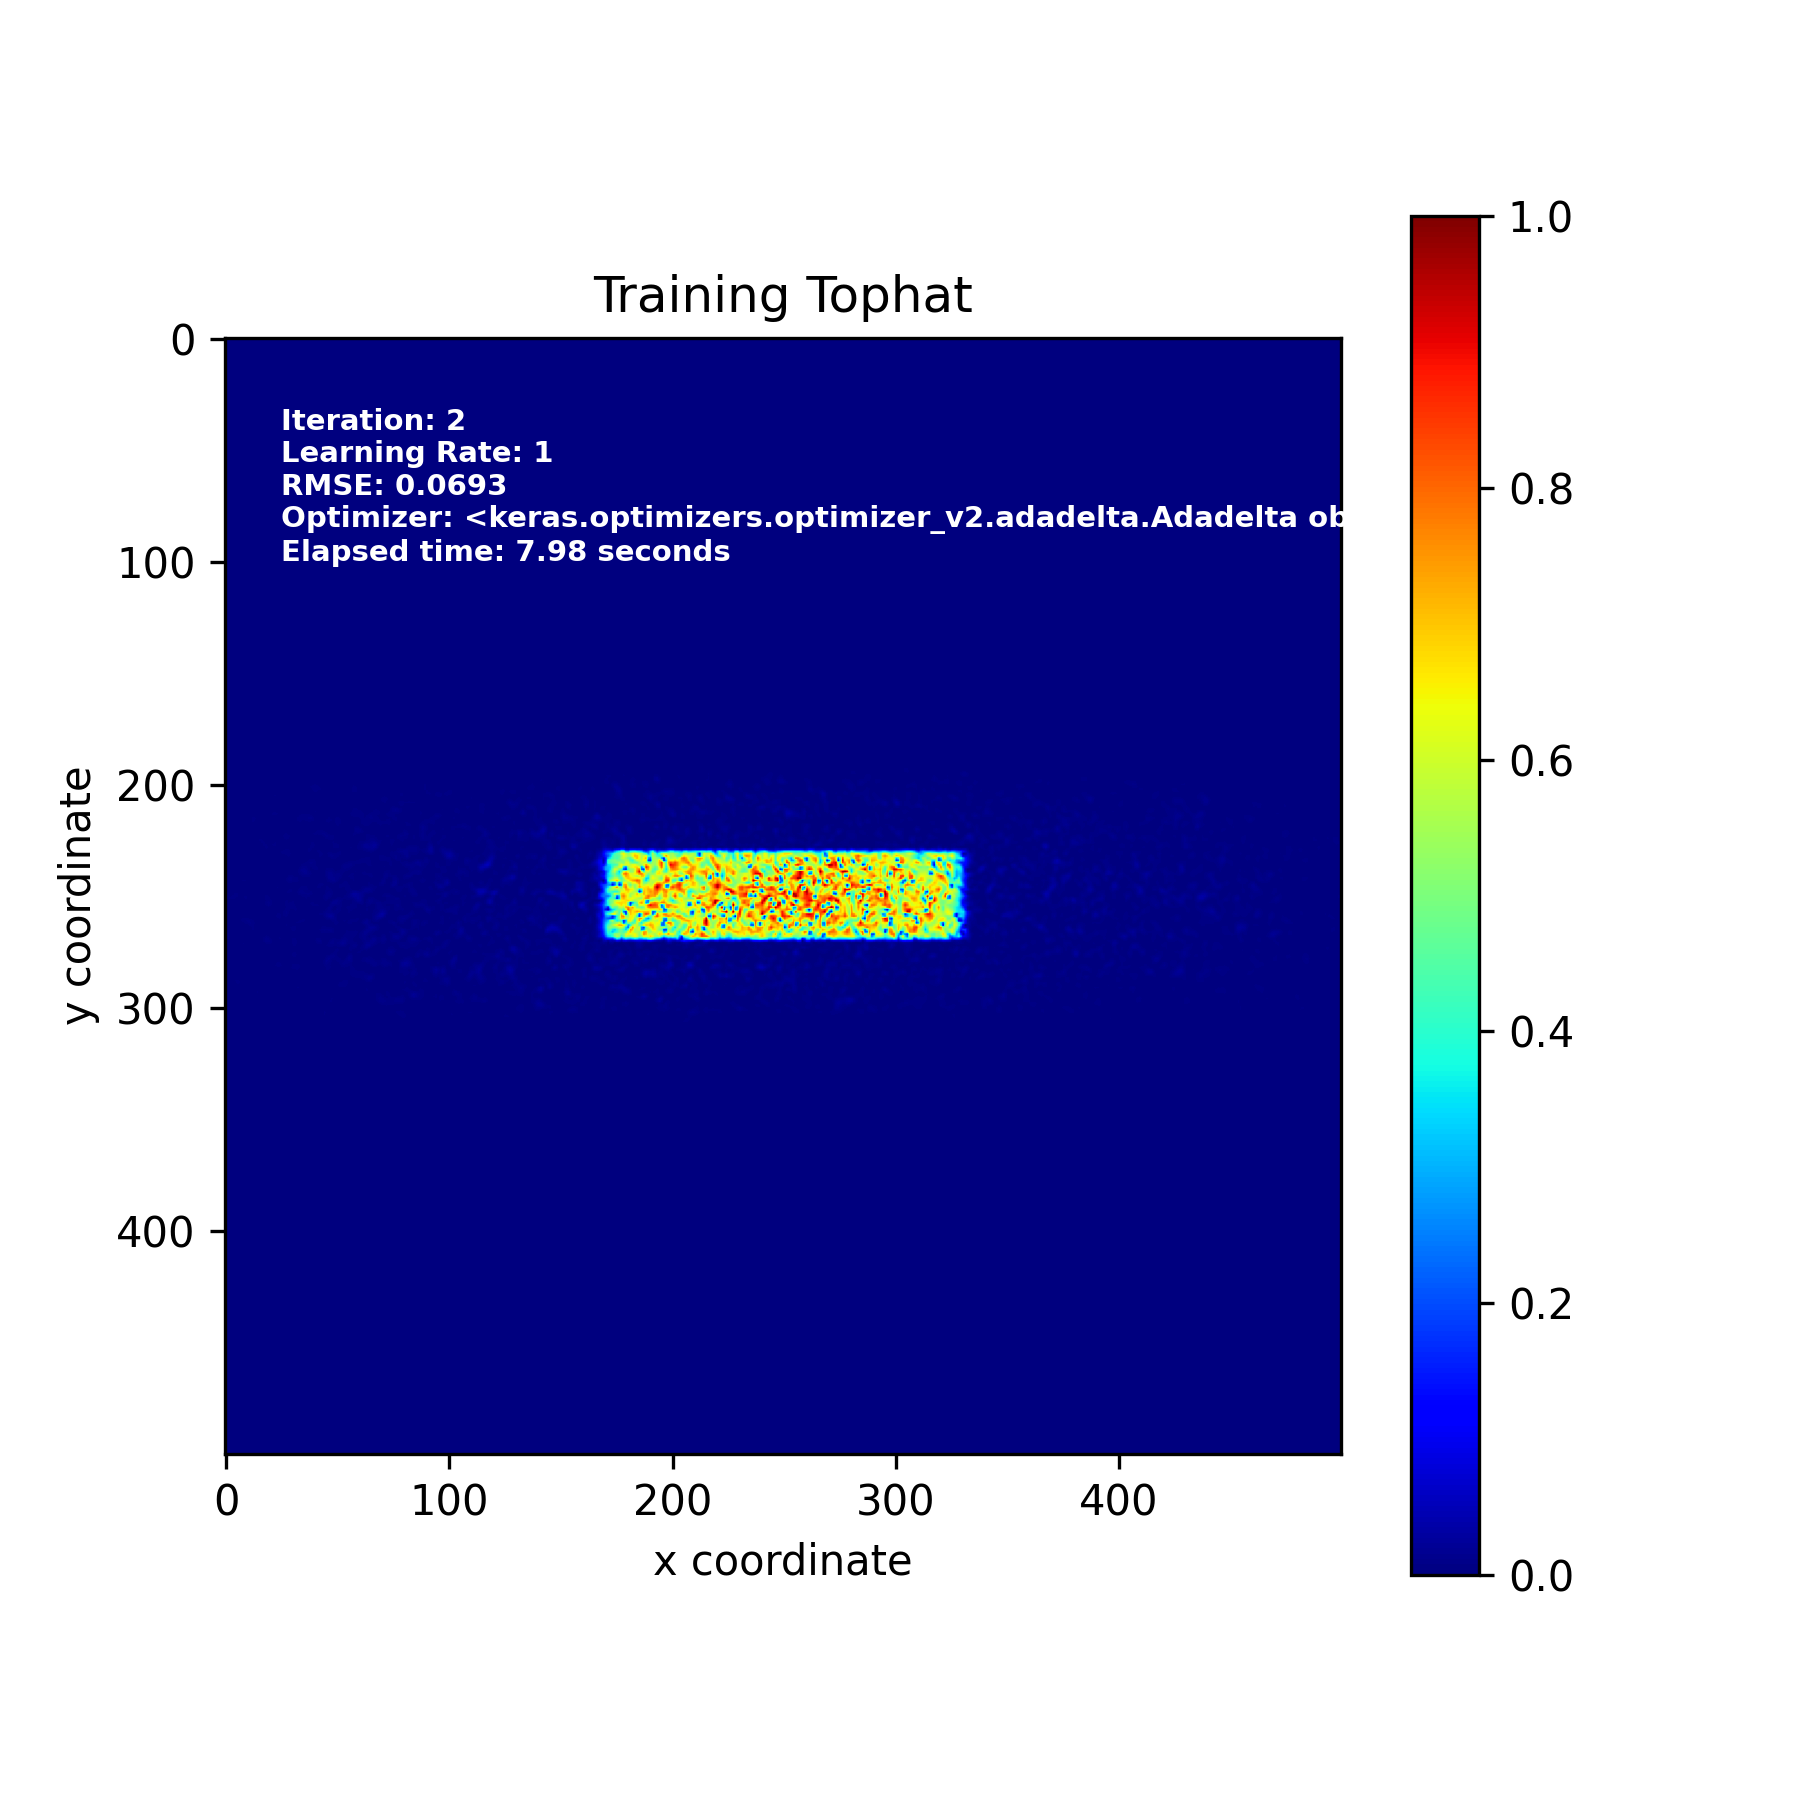
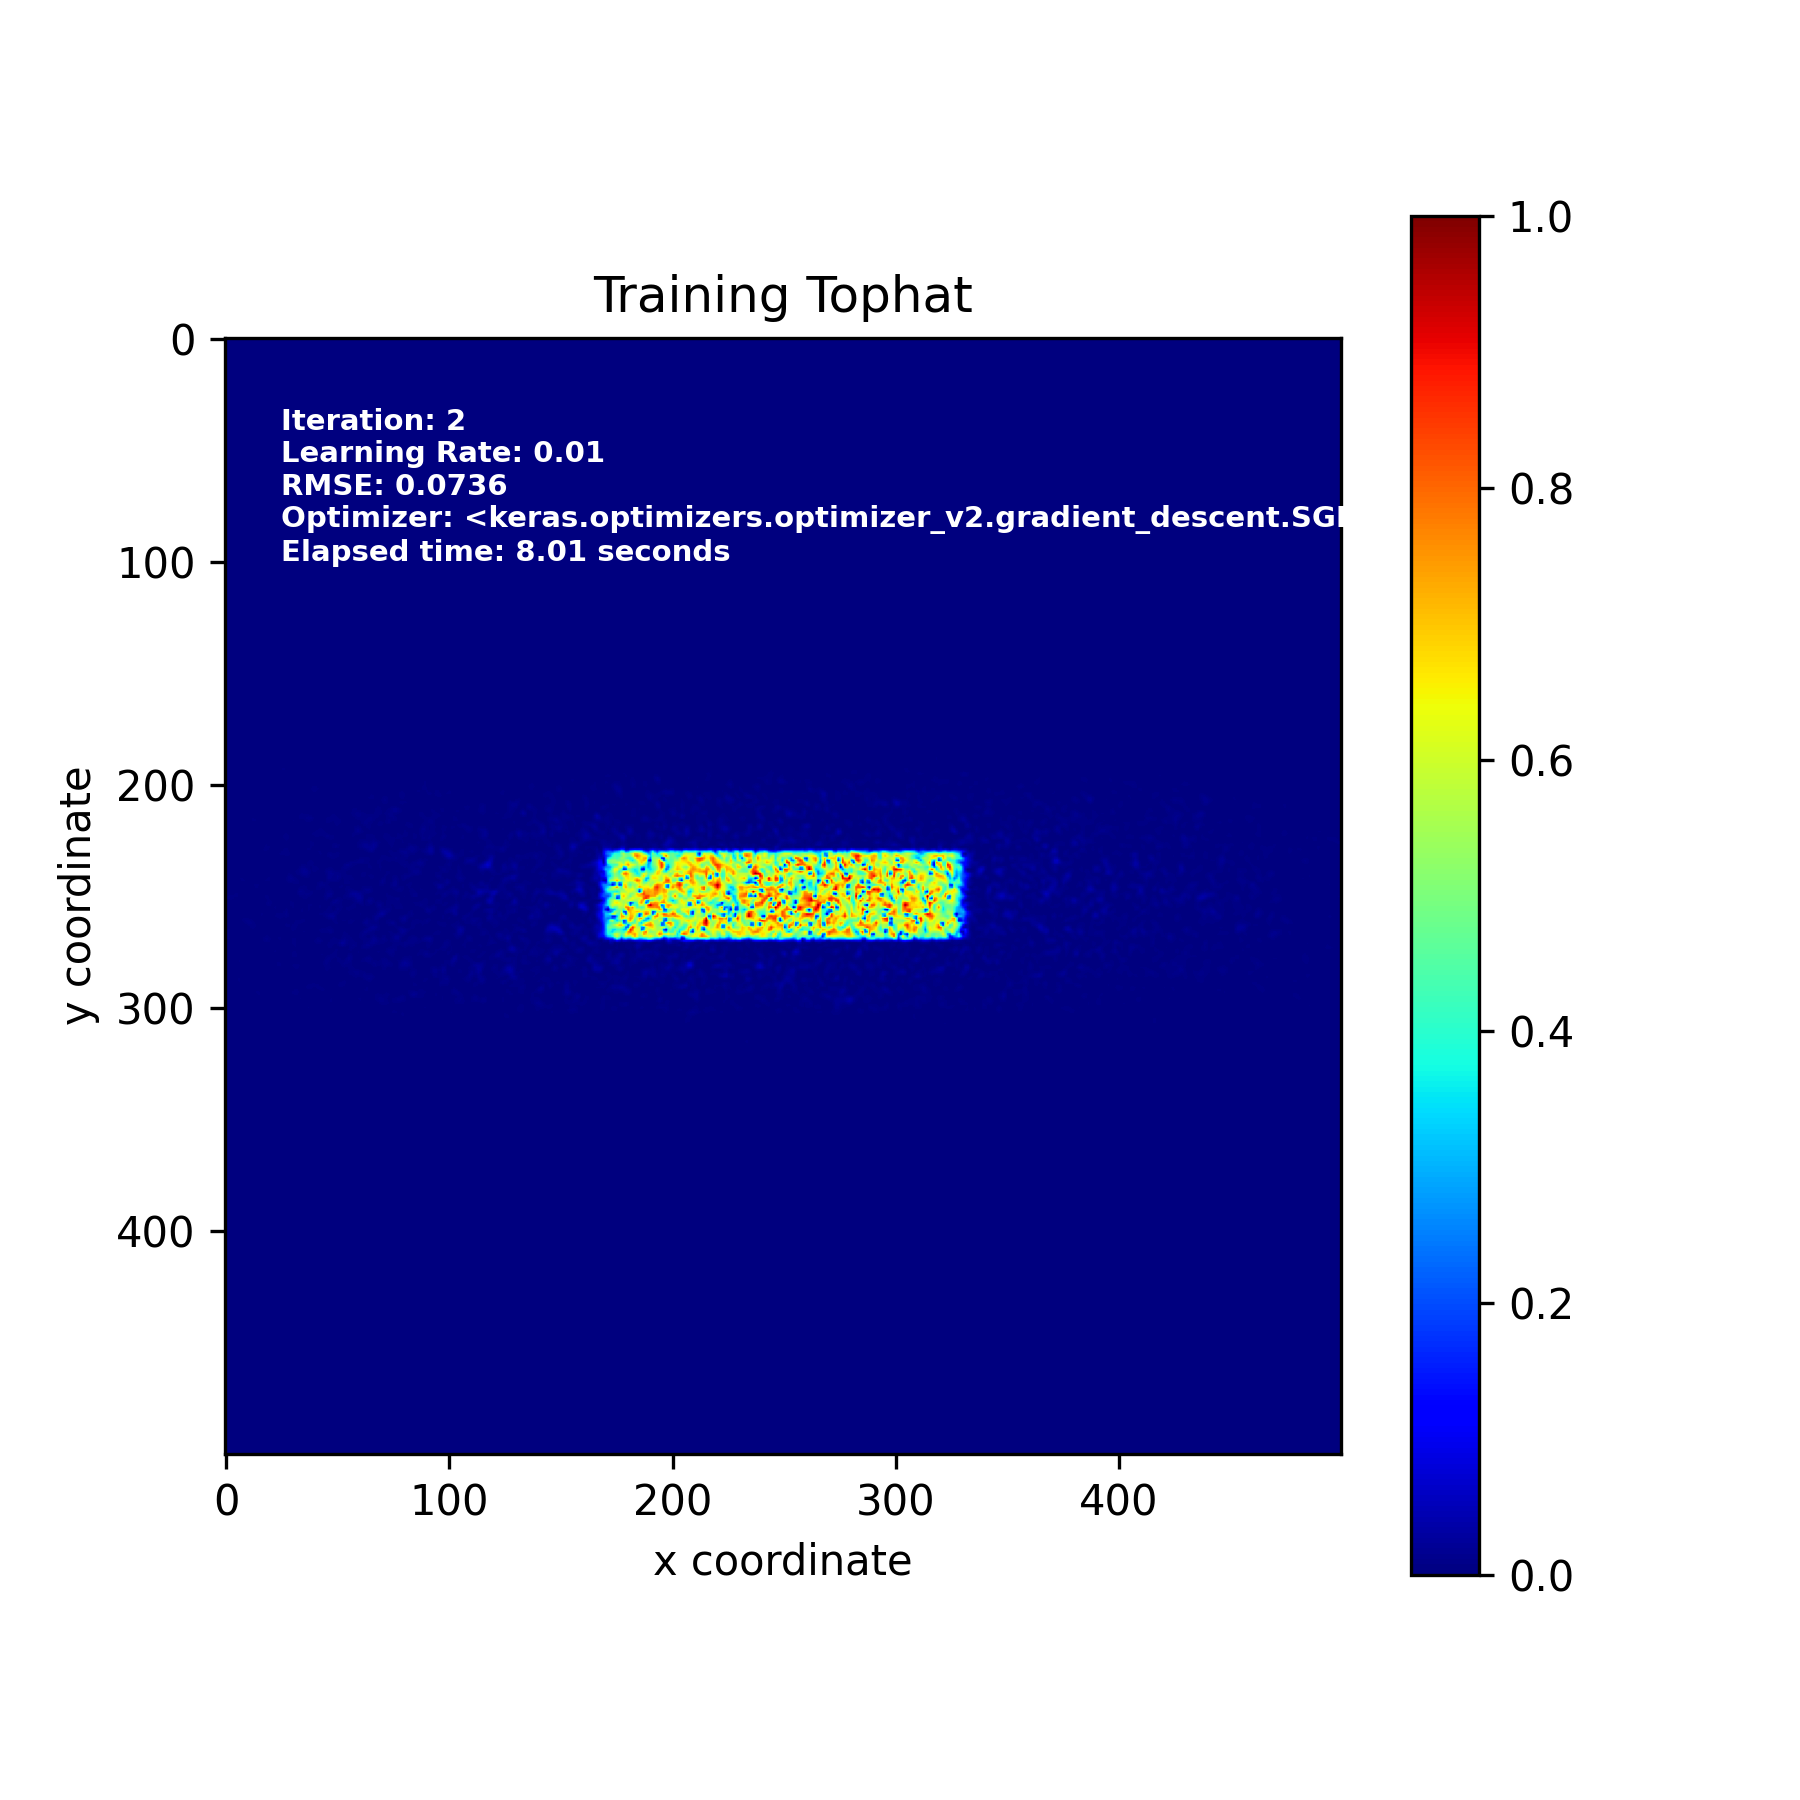
'testPytorchInsteadOfTensorflow'

diff --git a/torchTest.py b/torchTest.py
@@ -1,0 +1,111 @@
+import torch
+import torch.optim as optim
+import numpy as np
+import matplotlib.pyplot as plt
+from IPython import display
+
+# Load the target image
+# ...
+
+# Create grid
+N = 500  # Number of grid points
+L = 1  # Grid size
+x = np.linspace(-L/2, L/2, N)
+y = np.linspace(-L/2, L/2, N)
+X, Y = np.meshgrid(x, y)
+
+pp = 2
+
+# Super-Gaussian profile parameters
+m = 16  # Super-Gaussian exponent
+w0 = L/6  # Super-Gaussian width
+
+# Calculate Gaussian beam profile, and it is electric field format
+R = np.sqrt(X**2 + Y**2)  # Circular shape
+initial_profile = np.exp(-((R/w0)**2))
+
+
+# Generate super-Gaussian profile
+target = np.square(np.exp(-(np.abs(X)/w0)**(2*m)) * np.exp(-(np.abs(Y)/(w0/4))**(2*m)))
+
+# Normalize target matrix
+target /= np.max(target)
+
+# Define your DOE phase tensor
+DOE = torch.from_numpy(np.load('DOE_data.npy')).float()
+
+# Create a tensor for target and initial profiles
+target = torch.from_numpy(target).float()
+initial_profile = torch.from_numpy(initial_profile).float()
+
+# Convert DOE tensor to complex type
+DOE = DOE.view(-1, 2)
+DOE = torch.complex(DOE[:, 0], DOE[:, 1])
+
+
+target = target.unsqueeze(0).unsqueeze(0)
+initial_profile = initial_profile.unsqueeze(0).unsqueeze(0)
+
+
+
+# Create a PyTorch variable for the DOE tensor
+variables = torch.nn.Parameter(DOE)
+
+
+# Define the cost function
+def costFn(variables):
+    # Perform the desired calculations using PyTorch tensor operations
+   
+    cost = torch.sum(torch.pow(target - torch.square(torch.abs(torch.fft.fft2(initial_profile * torch.exp(1j * variables)))), pp), dim=(2, 3))
+    return cost
+
+# Define the conjugate gradient optimization method
+def conjugate_gradient(costFn, variables, max_iter=100, tolerance=1e-6):
+    # Initialize variables
+    b = -torch.autograd.grad(costFn(variables), variables)[0]
+    p = b.clone()
+    r = b.clone()
+
+    for i in range(max_iter):
+        Ap = torch.autograd.grad(costFn(variables), variables, create_graph=True)[0]
+        alpha = torch.sum(r * r) / torch.sum(p * Ap)
+        variables.data += alpha * p
+        new_r = r - alpha * Ap
+
+        if torch.norm(new_r) < tolerance:
+            break
+
+        beta = torch.sum(new_r * new_r) / torch.sum(r * r)
+        p = new_r + beta * p
+        r = new_r
+
+    return variables
+
+# Perform optimization using conjugate gradient
+max_iterations = 100
+tolerance = 1e-6
+variables = conjugate_gradient(costFn, variables, max_iter=max_iterations, tolerance=tolerance)
+
+# Plot the cost and the image (similar to your original code)
+# ...
+# Plot the cost function
+plt.subplot(121)
+plt.plot(range(len(costFn)), costFn)
+plt.xlabel('Iteration')
+plt.ylabel('Cost')
+plt.title('Cost Function')
+
+# Plot the image
+plt.subplot(122)
+# show training Tophat
+
+# inspect smoother 
+plt.imshow(torch.square(torch.abs(torch.fft.fft2(initial_profile * torch.exp(1j * variables)))) / torch.max(torch.square(torch.abs(torch.fft.fft2(initial_profile * torch.exp(1j * variables))))))
+plt.title('Training Data')
+plt.axis('image')
+plt.colorbar(shrink=0.5)
+# Display the plot
+display.clear_output(wait=True)
+display.display(plt.gcf())
+# Save or display the optimized profile
+# ...

diff --git a/__main__.py b/__main__.py
@@ -10,6 +10,8 @@ import os
 import shutil
 
 
+# ===================================== Parameters config ===============================================
+
 # Loading the target image
 # Create grid
 N = 500  # Number of grid points
@@ -17,6 +19,7 @@ L = 1  # Grid size
 x = np.linspace(-L/2, L/2, N)
 y = np.linspace(-L/2, L/2, N)
 X, Y = np.meshgrid(x, y)
+
 
 # Super-Gaussian profile parameters
 m = 16  # Super-Gaussian exponent
@@ -43,6 +46,11 @@ s = 30
 # Create an empty list to store frames
 frames = []
 
+# costType: 1 = simple cost function(Ct2), 2 = smoothing neighbor pixels(Cs), 3 = alternating Ct4 / Cs, 4 = alternating Ct2 / Cs, 5 = Ct4 / Ct2
+costType = 1
+learning_rate=0.01
+
+# ===================================== Parameters config ===============================================
 
 # conjugate gradient method algorithm
 # Iterate to calculate the phase value
@@ -71,10 +79,7 @@ for t in range(s):
     
     ############################ Optimization funciton
     
-    learning_rate=1
-    
-    # costType: 1 = simple cost function(Ct2), 2 = smoothing neighbor pixels(Cs), 3 = alternating Ct4 / Cs, 4 = alternating Ct2 / Cs, 5 = Ct4 / Ct2
-    costType = 5
+
     cost, DOE_tf, learning_rate, optimizer_string = costfunction(DOE, target, initial_profile, N,t,learning_rate, costType)
     DOE = DOE_tf.numpy() 
 

diff --git a/functions.py b/functions.py
@@ -28,7 +28,7 @@ def costfunction(DOE, target, initial_profile, N, t, LR, costType):
     DOE_tf = tf.math.real(DOE_tf)
     variables = tf.Variable(DOE_tf)
     learning_rate=LR
-    optimizer = tf.optimizers.Adadelta(learning_rate)
+    optimizer = tf.optimizers.SGD(learning_rate)
     
     
     def costFnSmoothing (variables):
